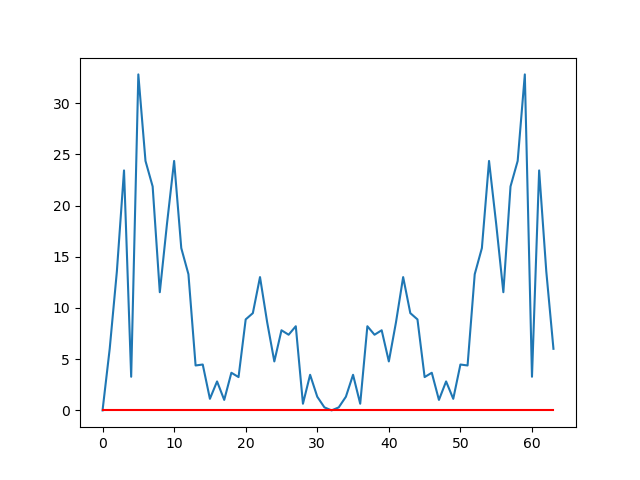
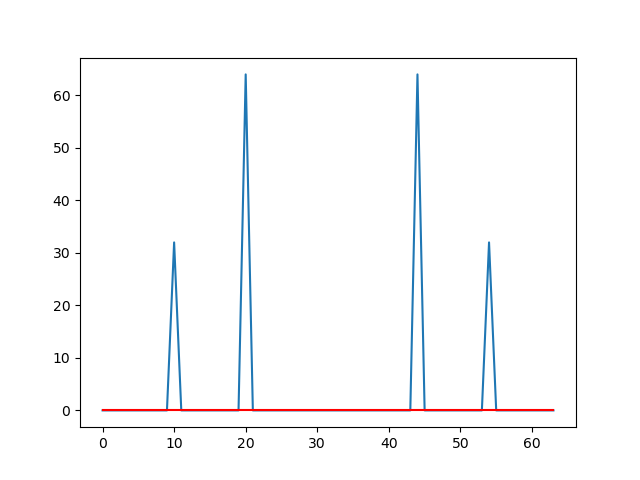
fast fourier transform implemented iteratively. made a bunch of random functions and simulations with claude 3.5 to test.

diff --git a/fft.c b/fft.c
@@ -1,9 +1,13 @@
 #include <stdio.h> 
 #include <math.h>
 #include <stdlib.h>
+#include <time.h>
+#include <unistd.h>
 
 #define PI 3.14159265358979323846
-#define N 64
+#define N 64 
+#define WINDOW_SIZE N
+#define OVERLAP 16
 
 typedef struct {
     double real;
@@ -53,7 +57,7 @@ void write_frequencies_csv(complex *X, int K) {
     fprintf(f, "index,real,imag\n");
     for (int k = 0; k < K; k++) {
         // the indices are i * range / N
-        fprintf(f, "%d,%f,%f\n", k, sqrt(X[k].real*X[k].real + X[k].imag *  X[k].imag), 0.0);
+        fprintf(f, "%d,%f,%f\n", k , sqrt(X[k].real*X[k].real + X[k].imag *  X[k].imag), 0.0);
         // fprintf(f, "%d,%f,%f\n", k, X[k].real, 0.0);
     }
 }
@@ -114,6 +118,31 @@ int is_power_of_two(int x) {
     return (x > 0) && ((x & (x-1)) == 0);
 }  
 
+
+
+// Faster random number generator
+static unsigned int seed = 1;
+inline static unsigned int fast_rand() {
+    seed = (214013 * seed + 2531011);
+    return (seed >> 16) & 0x7FFF;
+}
+
+void generate_random_signal(complex *signal, int n, int num_frequencies) {
+    for (int i = 0; i < n; i++) {
+        signal[i].real = 0;
+        signal[i].imag = 0;
+    }
+
+    for (int f = 0; f < num_frequencies; f++) {
+        double amplitude = (double)fast_rand() / 0x7FFF * 10;
+        int frequency = fast_rand() % (n/2);
+        double phase = (double)fast_rand() / 0x7FFF * 2 * PI;
+
+        for (int i = 0; i < n; i++) {
+            signal[i].real += amplitude * cos(2 * PI * frequency * i / n + phase);
+        }
+    }
+}
 void cooley_tukey_rec(complex *x, complex *X, int n) { 
     // if the length is one, return the term itself
     if (n == 1) {  
@@ -167,47 +196,159 @@ void cooley_tukey_rec(complex *x, complex *X, int n) {
     free(odd_transformed);
 } 
 
+// in this better implementation, the input is not preserved
+void cooley_tukey_iterative(complex *x, int n) {
+    // bit reversal
+    for (int i = 0; i < n; i++) {
+        int j = bit_reversal(i, (int)log2(n));
+        if (i < j) {
+            complex temp = x[i];
+            x[i] = x[j];
+            x[j] = temp;
+        }
+    }
+
+    // main loop, notice step *= 2
+    for (int step = 2; step <= n; step *= 2) {
+        double angle = -2 * PI / step;
+        complex w = complex_from_polar(1.0, angle);
+        
+        for (int k = 0; k < n; k += step) {
+            complex w_k = {1, 0}; // Start with w^0 = 1
+            
+            for (int j = 0; j < step / 2; j++) {
+                complex t = complex_mul(w_k, x[k + j + step/2]);
+                complex u = x[k + j];
+                // even and odd parts
+                x[k + j] = complex_add(u, t);
+                x[k + j + step/2] = complex_sub(u, t);
+                w_k = complex_mul(w_k, w);
+            }
+        }
+    }
+}
+
 void cooley_tukey(complex *x, complex *X, int n) { 
-    // y  is the bit reverse version of x
-    //
     if (!is_power_of_two(n)) { 
         fprintf(stderr, "Error: FFT length must be a power of 2\n");
         return;
     } 
 
     complex y[n];
-    // double *y = (double *)malloc(n * sizeof(double));
-    bit_reverse_copy(x, y, n); 
 
     cooley_tukey_rec(y, X, n);
 } 
 
+
+void print_to_terminal(complex *x, int n) {
+    static double magnitudes[N/2];
+    static int d[N/2];
+    static char buffer[N/2][N+3];  // Pre-allocate buffer for each line
+
+    // Calculate magnitudes and scale to 0-50 range
+    double max_magnitude = 0;
+    for (int i = 0; i < n/2; i++) {
+        magnitudes[i] = sqrt(x[i].real * x[i].real + x[i].imag * x[i].imag);
+        if (magnitudes[i] > max_magnitude) max_magnitude = magnitudes[i];
+    }
+
+    for (int i = 0; i < n/2; i++) {
+        d[i] = (int)(magnitudes[i] / max_magnitude * 50);
+    }
+
+    // Prepare output buffer
+    for (int i = 0; i < n/2; i++) {
+        int pos = sprintf(buffer[i], "%2d ", i);
+        for (int j = 0; j < d[i]; j++) {
+            buffer[i][pos++] = '*';
+        }
+        buffer[i][pos] = '\n';
+        buffer[i][pos+1] = '\0';
+    }
+
+    // Clear terminal and print
+    printf("\033[2J\033[1;1H");
+    for (int i = 0; i < n/2; i++) {
+        printf("%s", buffer[i]);
+    }
+}
+
+
+// Circular buffer for incoming samples
+double circular_buffer[N * 2];  // Twice the size to simplify implementation
+int buffer_pos = 0;
+
+// Generate a single random sample
+double generate_random_sample() {
+    double sample = 0;
+    int num_frequencies = 3;
+    for (int f = 0; f < num_frequencies; f++) {
+        double amplitude = (double)fast_rand() / 0x7FFF * 10;
+        int frequency = fast_rand() % (N/2);
+        double phase = (double)fast_rand() / 0x7FFF * 2 * PI;
+        sample += amplitude * sin(2 * PI * frequency * buffer_pos / N + phase);
+    }
+    return sample;
+}
+
+// Add a new sample to the circular buffer
+void add_sample_to_buffer(double sample) {
+    circular_buffer[buffer_pos] = sample;
+    circular_buffer[buffer_pos + N] = sample;  // Duplicate for easy windowing
+    buffer_pos = (buffer_pos + 1) % N;
+}
+
+// Get a window of samples from the circular buffer
+void get_window(complex *window) {
+    int start = (buffer_pos - WINDOW_SIZE + N) % N;
+    for (int i = 0; i < WINDOW_SIZE; i++) {
+        window[i].real = circular_buffer[start + i] * (0.54 - 0.46 * cos(2 * PI * i / (WINDOW_SIZE - 1)));  // Hamming window
+        window[i].imag = 0;
+    }
+}
 int main() { 
     complex arr1[64];
     unsigned int n = 64;
     //// sample function for testing
-    for (int i = 0; i < n; i++) {
-        arr1[i].real= test_func((double)i/n);
-        arr1[i].imag = 0.0;
+    // for (int i = 0; i < n; i++) {
+        // arr1[i].real= test_func((double)i * T / n);
+        // arr1[i].imag = 0.0;
+    // }
+    //
+
+    complex window[WINDOW_SIZE];
+    for (int i = 0; i < N; i++) {
+        add_sample_to_buffer(generate_random_sample());
+    }
+    
+    complex signal[n];
+    // complex transformed[n];
+    while(0) {  // Inf loop
+                //
+         // Generate and add new samples
+        for (int i = 0; i < OVERLAP; i++) {
+            add_sample_to_buffer(generate_random_sample());
+        }
+
+        // Get window of samples
+        get_window(window);
+
+        // Perform FFT
+        cooley_tukey_iterative(window, WINDOW_SIZE);
+
+        // Print results
+        print_to_terminal(window, WINDOW_SIZE);
+
+        usleep(25000);  // 0.25 second delay
     }
 
-    complex X[n];
-
-    printf("sampled points:\n");
-    print_complex_array(arr1, n);
-
-    cooley_tukey(arr1, X, n);
-
-    printf("\ntransformed points:\n");
-    print_complex_array(X, n);
-
-    // Print the results
-    // for (int i = 0; i < n; i++) {
-        // printf("X[%d] = %.2f + %.2fi\n", i, X[i].real, X[i].imag);
-    // }
-    
-    write_frequencies_csv(X, n);
-
+    // translate random signals
+    while(1) {
+        generate_random_signal(signal, N, 3);
+        cooley_tukey_iterative(signal, N);
+        print_to_terminal(signal, N);
+        usleep(25000);
+    }
     return 0;
 
 }
